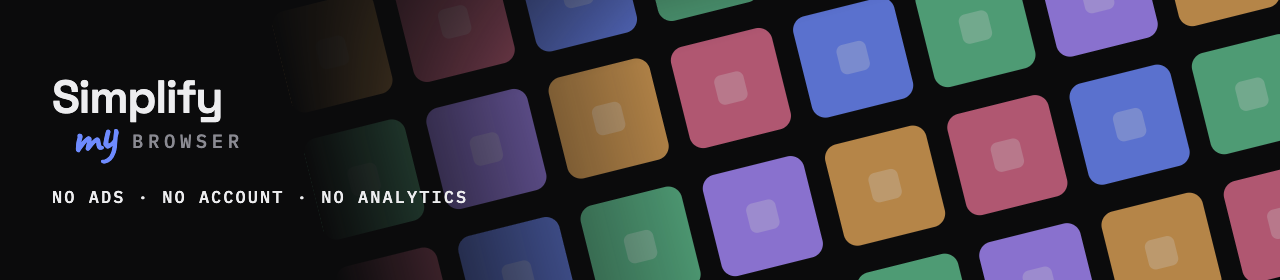
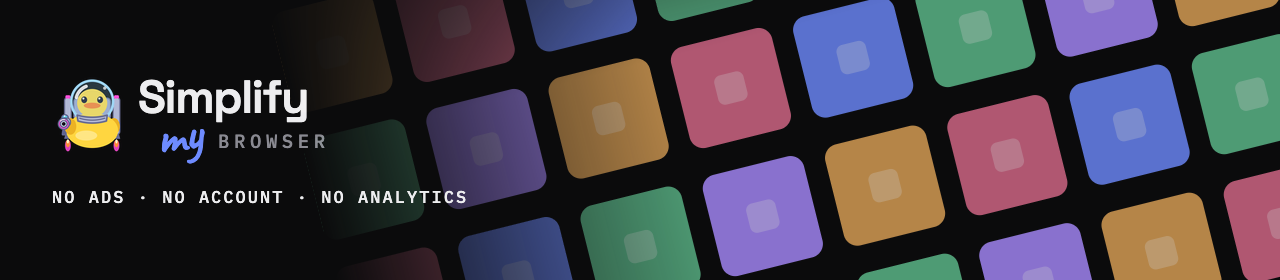
feat: clear history by time range
- Clearing history in the Library and in Settings > Clear browsing data
  asks for a time range: last hour, today, last week, last month, last
  year or all time
- README banner shows the Simplify duck next to the wordmark
- Bump version to 0.1.3 (4)

Changed region(s): [[0.0312, 0.2857, 0.25, 0.5714]]

diff --git a/app/src/main/java/app/simplifymy/browser/feature/settings/SettingsScreen.kt b/app/src/main/java/app/simplifymy/browser/feature/settings/SettingsScreen.kt
@@ -24,6 +24,8 @@ import androidx.compose.ui.res.stringResource
 import androidx.compose.ui.tooling.preview.Preview
 import androidx.lifecycle.compose.collectAsStateWithLifecycle
 import app.simplifymy.browser.R
+import app.simplifymy.browser.core.history.HistoryPeriod
+import app.simplifymy.browser.feature.library.HistoryPeriodSetting
 import app.simplifymy.browser.core.settings.BrowserSettings
 import app.simplifymy.browser.core.settings.Language
 import app.simplifymy.browser.core.settings.SPEED_DIAL_COLUMNS
@@ -97,7 +99,7 @@ fun SettingsContent(
     engines: SearchEngines,
     update: (suspend SettingsRepository.() -> Unit) -> Unit,
     onSelectEngine: (String) -> Unit,
-    onClearData: (history: Boolean, siteData: Boolean, cache: Boolean) -> Unit,
+    onClearData: (history: HistoryPeriod?, siteData: Boolean, cache: Boolean) -> Unit,
     onOpenUrl: (String) -> Unit,
     onBack: () -> Unit,
 ) {
@@ -241,18 +243,20 @@ fun SettingsContent(
 }
 
 @Composable
-private fun ClearDataDialog(onDismiss: () -> Unit, onClear: (Boolean, Boolean, Boolean) -> Unit) {
+private fun ClearDataDialog(onDismiss: () -> Unit, onClear: (HistoryPeriod?, Boolean, Boolean) -> Unit) {
     var history by remember { mutableStateOf(true) }
+    var period by remember { mutableStateOf(HistoryPeriod.All) }
     var siteData by remember { mutableStateOf(true) }
     var cache by remember { mutableStateOf(true) }
     BrowserDialog(
         title = stringResource(R.string.setting_clear_data),
         onDismiss = onDismiss,
         confirmLabel = stringResource(R.string.action_clear),
-        onConfirm = { onClear(history, siteData, cache) },
+        onConfirm = { onClear(period.takeIf { history }, siteData, cache) },
         dismissLabel = stringResource(R.string.action_cancel),
     ) {
         ToggleSetting(stringResource(R.string.clear_history), history, { history = it })
+        if (history) HistoryPeriodSetting(period) { period = it }
         ToggleSetting(stringResource(R.string.clear_site_data), siteData, { siteData = it })
         ToggleSetting(stringResource(R.string.clear_cache), cache, { cache = it })
     }

diff --git a/app/src/main/java/app/simplifymy/browser/feature/library/ClearHistoryDialog.kt b/app/src/main/java/app/simplifymy/browser/feature/library/ClearHistoryDialog.kt
@@ -1,0 +1,44 @@
+package app.simplifymy.browser.feature.library
+
+import androidx.compose.runtime.Composable
+import androidx.compose.runtime.getValue
+import androidx.compose.runtime.mutableStateOf
+import androidx.compose.runtime.remember
+import androidx.compose.runtime.setValue
+import androidx.compose.ui.res.stringResource
+import androidx.compose.ui.tooling.preview.Preview
+import app.simplifymy.browser.R
+import app.simplifymy.browser.core.history.HistoryPeriod
+import app.simplifymy.browser.ui.component.BrowserDialog
+import app.simplifymy.browser.ui.component.DropdownSetting
+import app.simplifymy.browser.ui.theme.BrowserTheme
+
+@Composable
+fun HistoryPeriodSetting(selected: HistoryPeriod, onSelect: (HistoryPeriod) -> Unit) {
+    DropdownSetting(
+        label = stringResource(R.string.clear_period),
+        options = HistoryPeriod.entries,
+        selected = selected,
+        onSelect = onSelect,
+    ) { stringResource(it.labelRes) }
+}
+
+@Composable
+fun ClearHistoryDialog(onDismiss: () -> Unit, onClear: (HistoryPeriod) -> Unit) {
+    var period by remember { mutableStateOf(HistoryPeriod.All) }
+    BrowserDialog(
+        title = stringResource(R.string.history_clear),
+        onDismiss = onDismiss,
+        confirmLabel = stringResource(R.string.action_clear),
+        onConfirm = { onClear(period) },
+        dismissLabel = stringResource(R.string.action_cancel),
+    ) {
+        HistoryPeriodSetting(period) { period = it }
+    }
+}
+
+@Preview
+@Composable
+private fun ClearHistoryDialogPreview() {
+    BrowserTheme { ClearHistoryDialog(onDismiss = {}, onClear = {}) }
+}

diff --git a/app/src/main/java/app/simplifymy/browser/feature/library/LibraryScreen.kt b/app/src/main/java/app/simplifymy/browser/feature/library/LibraryScreen.kt
@@ -27,6 +27,7 @@ import androidx.compose.ui.tooling.preview.Preview
 import androidx.compose.ui.unit.dp
 import androidx.lifecycle.compose.collectAsStateWithLifecycle
 import app.simplifymy.browser.R
+import app.simplifymy.browser.core.history.HistoryPeriod
 import app.simplifymy.browser.ui.component.BrowserIcons
 import app.simplifymy.browser.ui.component.EmptyState
 import app.simplifymy.browser.ui.component.Favicon
@@ -79,14 +80,16 @@ fun LibraryContent(
     onOpen: (String) -> Unit,
     onDeleteBookmark: (LibraryEntry) -> Unit,
     onDeleteHistory: (LibraryEntry) -> Unit,
-    onClearHistory: () -> Unit,
+    onClearHistory: (HistoryPeriod) -> Unit,
     onOpenDownloads: () -> Unit,
 ) {
     var section by remember { mutableStateOf(start) }
+    var clearing by remember { mutableStateOf(false) }
+    if (clearing) ClearHistoryDialog(onDismiss = { clearing = false }, onClear = { onClearHistory(it); clearing = false })
     Screen(Modifier.fillMaxSize()) {
         ScreenHeader(stringResource(section.labelRes), onBack) {
             when (section) {
-                LibrarySection.History -> IconAction(BrowserIcons.Delete, stringResource(R.string.history_clear), onClearHistory, enabled = history.isNotEmpty())
+                LibrarySection.History -> IconAction(BrowserIcons.Delete, stringResource(R.string.history_clear), { clearing = true }, enabled = history.isNotEmpty())
                 LibrarySection.Downloads -> IconAction(BrowserIcons.Download, stringResource(R.string.downloads_system), onOpenDownloads)
                 LibrarySection.Bookmarks -> Unit
             }

diff --git a/app/src/main/java/app/simplifymy/browser/core/history/HistoryPeriod.kt b/app/src/main/java/app/simplifymy/browser/core/history/HistoryPeriod.kt
@@ -1,0 +1,31 @@
+package app.simplifymy.browser.core.history
+
+import androidx.annotation.StringRes
+import app.simplifymy.browser.R
+import mozilla.components.concept.storage.HistoryStorage
+import java.time.LocalDate
+import java.time.ZoneId
+import java.util.concurrent.TimeUnit
+
+enum class HistoryPeriod(@StringRes val labelRes: Int) {
+    LastHour(R.string.period_last_hour),
+    Today(R.string.period_today),
+    LastWeek(R.string.period_last_week),
+    LastMonth(R.string.period_last_month),
+    LastYear(R.string.period_last_year),
+    All(R.string.period_all);
+
+    fun since(now: Long = System.currentTimeMillis()): Long? = when (this) {
+        LastHour -> now - TimeUnit.HOURS.toMillis(1)
+        Today -> LocalDate.now().atStartOfDay(ZoneId.systemDefault()).toInstant().toEpochMilli()
+        LastWeek -> now - TimeUnit.DAYS.toMillis(7)
+        LastMonth -> now - TimeUnit.DAYS.toMillis(30)
+        LastYear -> now - TimeUnit.DAYS.toMillis(365)
+        All -> null
+    }
+}
+
+suspend fun HistoryStorage.clear(period: HistoryPeriod) {
+    val since = period.since()
+    if (since == null) deleteEverything() else deleteVisitsSince(since)
+}

diff --git a/app/src/main/java/app/simplifymy/browser/feature/settings/SettingsViewModel.kt b/app/src/main/java/app/simplifymy/browser/feature/settings/SettingsViewModel.kt
@@ -6,6 +6,8 @@ import androidx.lifecycle.viewModelScope
 import app.simplifymy.browser.Components
 import app.simplifymy.browser.componentsFactory
 import app.simplifymy.browser.core.backup.BackupCounts
+import app.simplifymy.browser.core.history.HistoryPeriod
+import app.simplifymy.browser.core.history.clear
 import app.simplifymy.browser.core.search.choices
 import app.simplifymy.browser.core.search.selectSearchEngine
 import app.simplifymy.browser.core.search.selectedId
@@ -62,9 +64,9 @@ class SettingsViewModel(private val components: Components) : ViewModel() {
 
     fun selectSearchEngine(engine: SearchEngine) = components.store.selectSearchEngine(engine)
 
-    fun clearData(history: Boolean, siteData: Boolean, cache: Boolean) {
+    fun clearData(history: HistoryPeriod?, siteData: Boolean, cache: Boolean) {
         viewModelScope.launch {
-            if (history) components.history.deleteEverything()
+            history?.let { components.history.clear(it) }
             val types = listOfNotNull(
                 Engine.BrowsingData.ALL_SITE_DATA.takeIf { siteData },
                 Engine.BrowsingData.ALL_CACHES.takeIf { cache },

diff --git a/app/src/main/java/app/simplifymy/browser/feature/library/LibraryViewModel.kt b/app/src/main/java/app/simplifymy/browser/feature/library/LibraryViewModel.kt
@@ -6,6 +6,8 @@ import androidx.lifecycle.viewModelScope
 import app.simplifymy.browser.Components
 import app.simplifymy.browser.core.backup.MOBILE_BOOKMARKS
 import app.simplifymy.browser.componentsFactory
+import app.simplifymy.browser.core.history.HistoryPeriod
+import app.simplifymy.browser.core.history.clear
 import kotlinx.coroutines.flow.MutableStateFlow
 import kotlinx.coroutines.flow.SharingStarted
 import kotlinx.coroutines.flow.StateFlow
@@ -82,9 +84,9 @@ class LibraryViewModel(private val components: Components) : ViewModel() {
         }
     }
 
-    fun clearHistory() {
+    fun clearHistory(period: HistoryPeriod) {
         viewModelScope.launch {
-            components.history.deleteEverything()
+            components.history.clear(period)
             load()
         }
     }
